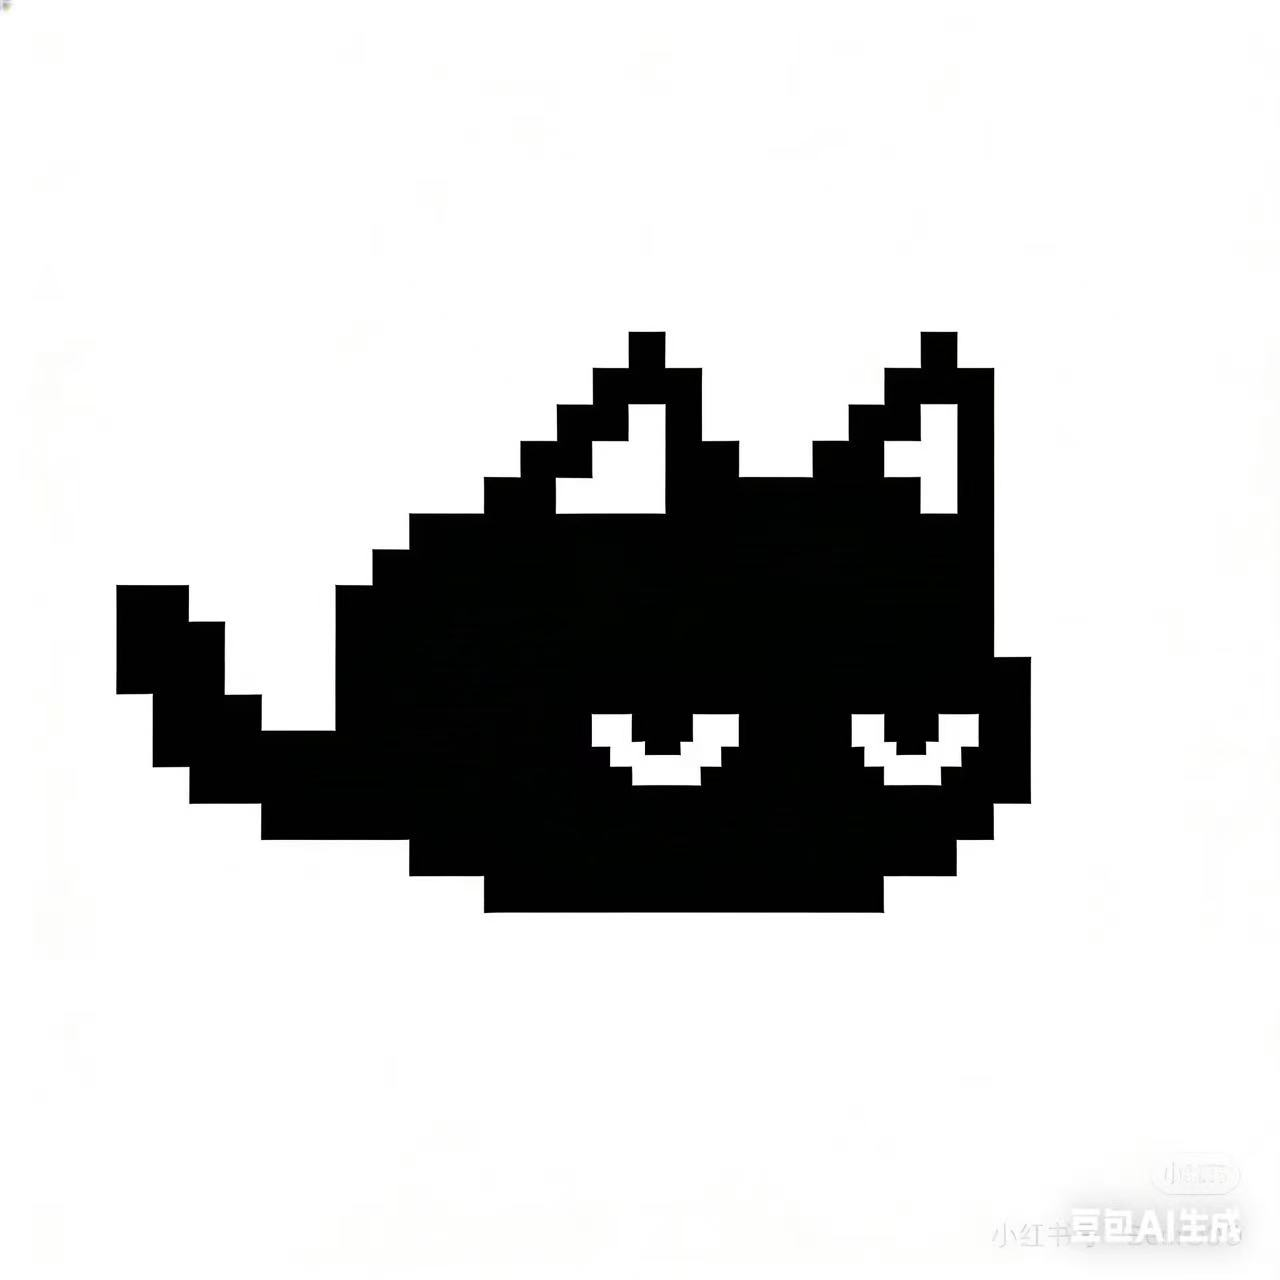
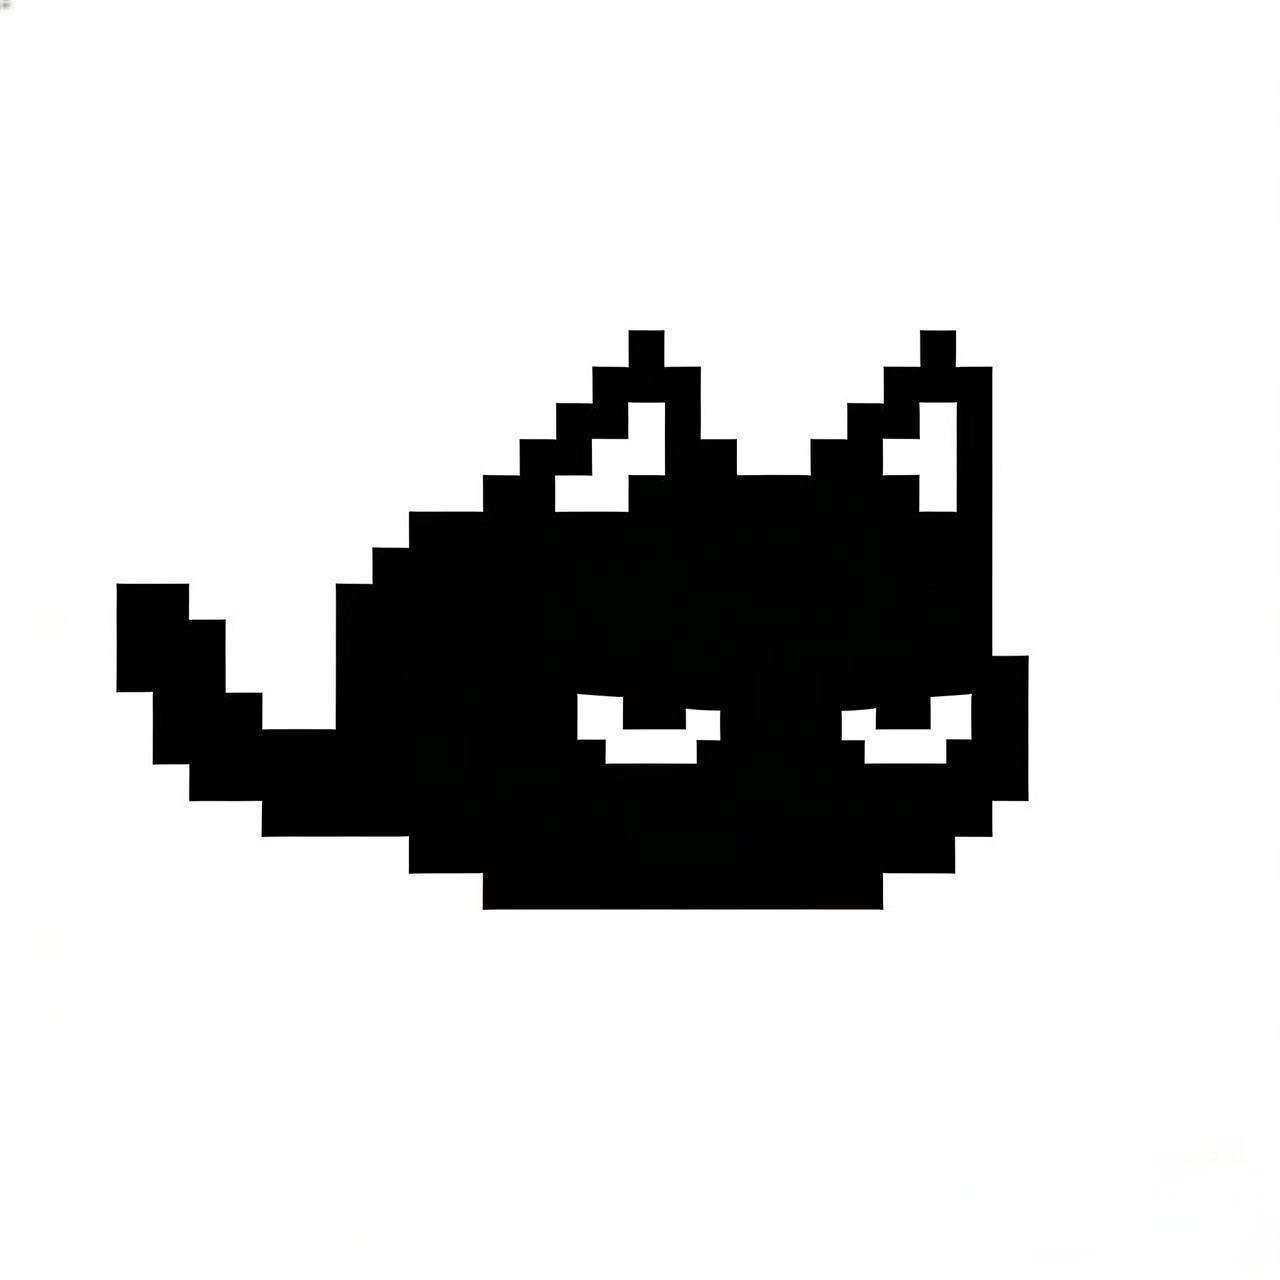
Add files via upload

diff --git a/index.html b/index.html
@@ -213,7 +213,7 @@
     let blinkIntervalId = null;
 
     // 图片帧
-    const blinkFrames = ['cat.png','cat3.png','cat1.png','cat.png'];
+    const blinkFrames = ['cat.png','cat1.png','cat.png'];
     const happyFrames = [
         'cat.png',
         'cat.png',
